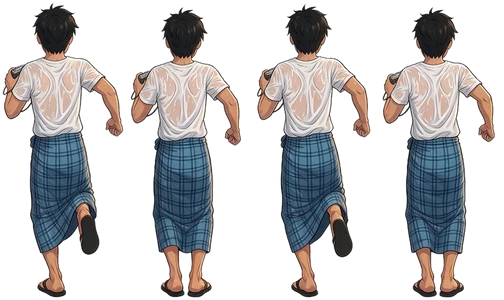
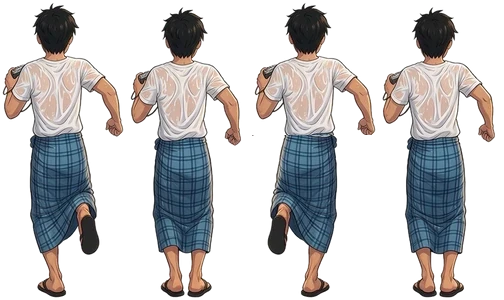
Water street: user's road edit, Min's run alternates legs, Min/May scale at the end
Claude-Session: https://claude.ai/code/session_01EzvUtRavncbLs7RHFedc6g

Changed region(s): [[0.506, 0.03, 0.744, 0.99], [0.5952, 0.0, 0.625, 0.03]]

diff --git a/index.html b/index.html
@@ -897,7 +897,7 @@ function wsRun(bag){return new Promise(async done=>{
   if(!bg.complete)await new Promise(r=>bg.onload=r);
   const W=f.clientWidth,H=f.clientHeight,IW=404,IH=800,sc=Math.max(W/IW,H/IH),ox=(W-IW*sc)/2,oy=(H-IH*sc)/2;
   // road geometry in image px: vanishing row VY, centre line cx(y), half width hw(y)
-  const VY=334,NY=716,cx=y=>202-(y-500)*.02,hw=y=>.45*(y-VY);
+  const VY=337,NY=716,cx=y=>205-(y-400)*.043,hw=y=>.475*(y-VY);
   const at=(s,l)=>{const y=VY+s*(NY-VY);return{x:ox+(cx(y)+(l-1)*(2/3)*hw(y))*sc,y:oy+y*sc}};
   const LANEW=(2/3)*hw(NY)*sc,max=bag?5:3,sp=S.speed>1?2:1;
   let lives=max,lane=1,wet=0,spl=0,ents=[],over=false;
@@ -943,8 +943,8 @@ function wsRun(bag){return new Promise(async done=>{
     if(lives<=0){over=true;finish(false);return}
     if(p<1)requestAnimationFrame(frame);else{over=true;finish(true)}}
   async function finish(ok){f.onpointerdown=null;me.classList.remove('run');ents.forEach(o=>o.el.remove());ents=[];f.querySelectorAll('.dz').forEach(e=>e.classList.remove('on'));
-    if(ok){const may=document.createElement('img');may.src='img/ws-may.webp';may.className='spr may';const m=at(.42,1);may.style.left=m.x+'px';may.style.top=m.y+'px';may.style.height=(LANEW*.5)+'px';f.appendChild(may);
-      lane=1;put();me.style.transition='left .3s ease, top 1.3s ease, height 1.3s ease, width 1.3s ease';me.classList.add('run');await rawSleep(80);const q=at(.5,1);me.style.top=(q.y+LANEW*.09)+'px';me.style.height=(LANEW*.55)+'px';me.style.width=(LANEW*.55*.42)+'px';await rawSleep(S.speed>1?300:1400)}
+    if(ok){const may=document.createElement('img');may.src='img/ws-may.webp';may.className='spr may';const m=at(.42,1);may.style.left=m.x+'px';may.style.top=(m.y+LANEW*.18*.42)+'px';may.style.height=(LANEW*.95*.42)+'px';f.appendChild(may);
+      lane=1;put();me.style.transition='left .3s ease, top 1.3s ease, height 1.3s ease, width 1.3s ease';me.classList.add('run');await rawSleep(80);const q=at(.47,1);me.style.top=(q.y+LANEW*.18*.47)+'px';me.style.height=(LANEW*1.05*.47)+'px';me.style.width=(LANEW*1.05*.47*.42)+'px';await rawSleep(S.speed>1?300:1400)}
     else await rawSleep(S.speed>1?200:900);
     me.style.transition='';done({ok,wet,spl,lives,max})}
   requestAnimationFrame(frame)})}
